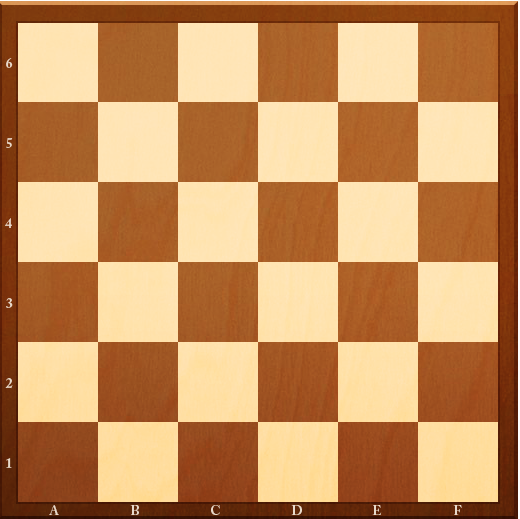
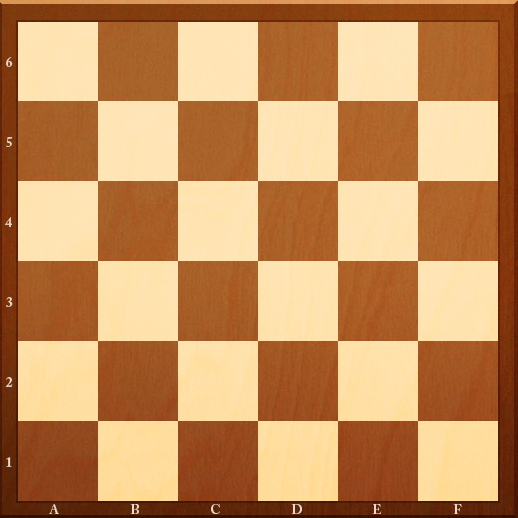
Change board asset and size

diff --git a/src/board.py b/src/board.py
@@ -13,7 +13,7 @@ from pieces import (
 
 class Board(pygame.Surface):
     def __init__(self):
-        BOARD_SIZE = 520
+        BOARD_SIZE = 518
 
         super().__init__([BOARD_SIZE, BOARD_SIZE])
 
